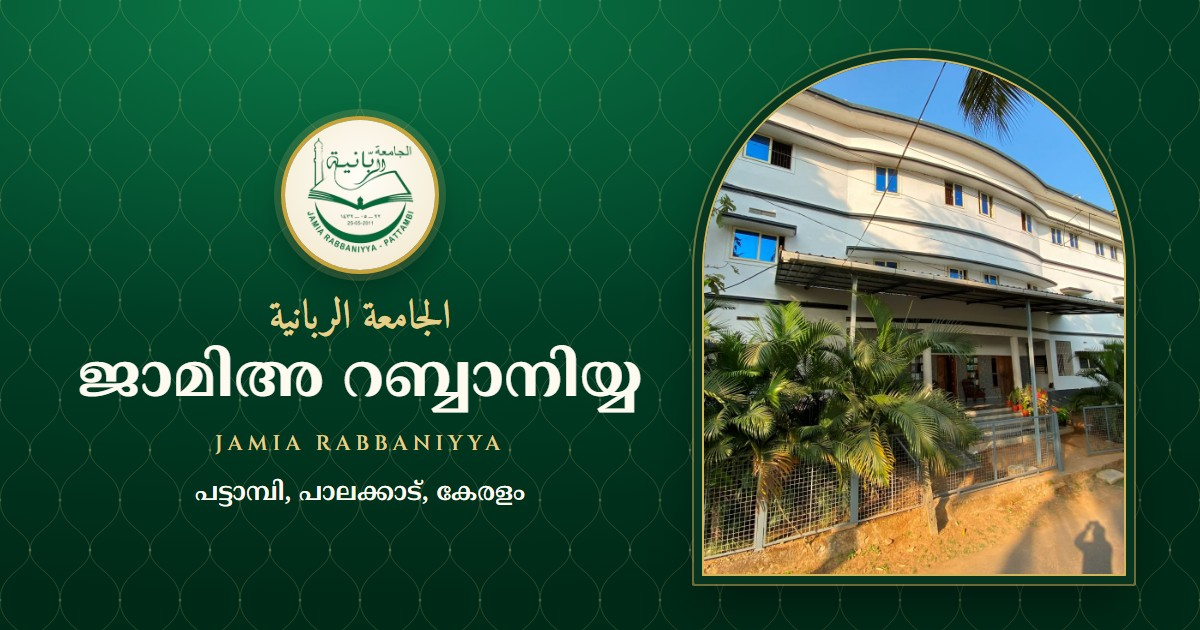
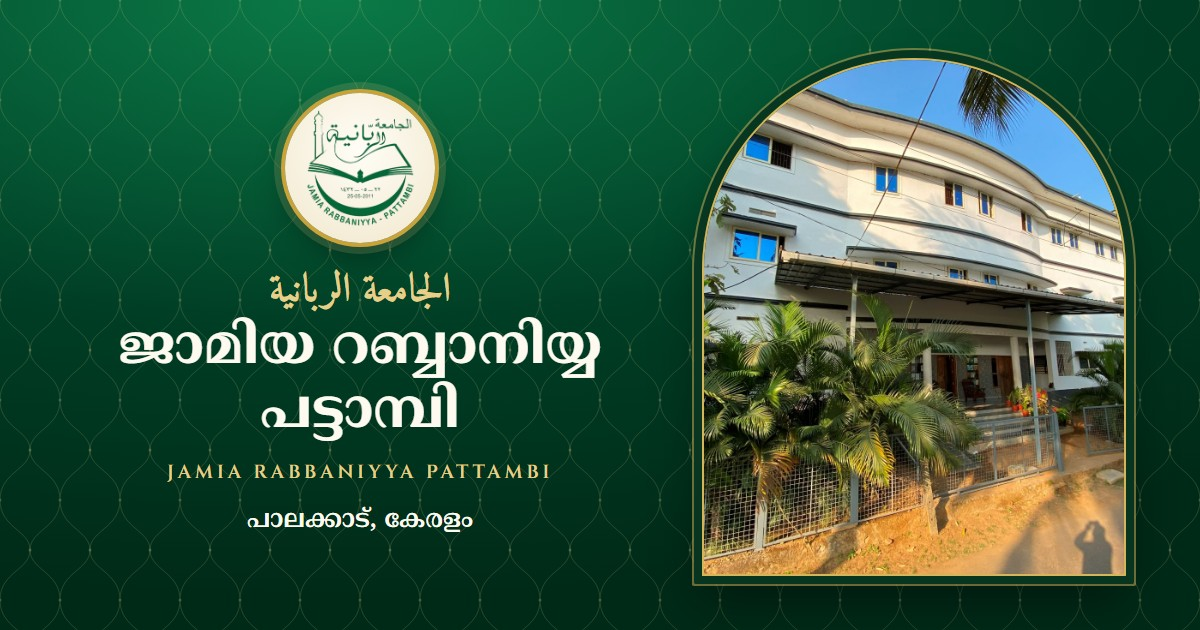
Full name, approved About text, office hours, founded 25 May 2011

Changed region(s): [[0.0617, 0.1206, 0.555, 0.8444]]

diff --git a/index.html b/index.html
@@ -3,14 +3,14 @@
 <head>
 <meta charset="utf-8">
 <meta name="viewport" content="width=device-width, initial-scale=1, viewport-fit=cover">
-<title>ജാമിഅ റബ്ബാനിയ്യ, പട്ടാമ്പി · Jamia Rabbaniyya, Pattambi</title>
-<meta name="description" content="ജാമിഅ റബ്ബാനിയ്യ, പട്ടാമ്പി: ഫോട്ടോ ആൽബങ്ങൾ, വിലാസം, ബന്ധപ്പെടാനുള്ള വിവരങ്ങൾ. Jamia Rabbaniyya, Pattambi, Palakkad, Kerala.">
+<title>ജാമിയ റബ്ബാനിയ്യ പട്ടാമ്പി · Jamia Rabbaniyya Pattambi</title>
+<meta name="description" content="ജാമിയ റബ്ബാനിയ്യ പട്ടാമ്പി, പാലക്കാട്: ദീനി വിദ്യാഭ്യാസ കേന്ദ്രം. തഹ്ഫീളുൽ ഖുർആൻ, കിത്താബ് ആലിം കോഴ്സ്. പഠനം, ഭക്ഷണം, ഹോസ്റ്റൽ സൗജന്യം. Jamia Rabbaniyya Pattambi, Palakkad, Kerala.">
 <meta name="theme-color" content="#003d25">
 <meta property="og:type" content="website">
 <meta property="og:locale" content="ml_IN">
-<meta property="og:site_name" content="Jamia Rabbaniyya">
-<meta property="og:title" content="ജാമിഅ റബ്ബാനിയ്യ, പട്ടാമ്പി · Jamia Rabbaniyya">
-<meta property="og:description" content="പട്ടാമ്പി, പാലക്കാട്, കേരളം · Pattambi, Palakkad, Kerala">
+<meta property="og:site_name" content="Jamia Rabbaniyya Pattambi">
+<meta property="og:title" content="ജാമിയ റബ്ബാനിയ്യ പട്ടാമ്പി · Jamia Rabbaniyya Pattambi">
+<meta property="og:description" content="ദീനി വിദ്യാഭ്യാസ കേന്ദ്രം · പട്ടാമ്പി, പാലക്കാട്, കേരളം · Pattambi, Palakkad, Kerala">
 <!-- SITE_URL_START -->
 <link rel="canonical" href="https://jamiarabbaniyyapattambi.github.io/">
 <meta property="og:url" content="https://jamiarabbaniyyapattambi.github.io/">
@@ -136,6 +136,14 @@
   .c-ic svg { width: 32px; height: 32px; }
   .course h4 { margin: 0; font-size: 18px; line-height: 1.35; font-weight: 700; color: var(--g900); }
   .course p { margin: 3px 0 0; font-family: var(--en); font-weight: 600; font-size: 11px; letter-spacing: .14em; text-transform: uppercase; color: var(--gold-d); }
+  .about-text .lead { font-size: 19px; font-weight: 700; color: var(--g900); }
+  .course .c-ml { margin: 6px 0 0; font-family: var(--ml); font-size: 14px; font-weight: 500; letter-spacing: 0; text-transform: none; color: var(--muted); }
+  .free { max-width: 620px; margin: 26px auto 0; padding: 18px 18px 16px; text-align: center; background: var(--card); border: 1px solid var(--line); border-top: 3px solid var(--gold); border-radius: 14px; box-shadow: 0 12px 26px -20px rgba(0, 61, 37, .5); }
+  .free p { margin: 0; font-size: 16.5px; line-height: 1.75; font-weight: 600; color: var(--g900); }
+  .nw { white-space: nowrap; }
+  .h1-en { letter-spacing: .17em; }
+  .f-hours { margin: 10px 0 0; font-size: 14px; color: #c9dbd0; }
+  .f-hours span { display: block; margin-top: 2px; font-family: var(--en); font-size: 11px; letter-spacing: .06em; color: #9fb8a8; }
   .about-call { margin: 30px 0 0; text-align: center; font-size: 17px; font-weight: 600; color: var(--g900); }
   .about .social { max-width: 520px; margin: 14px auto 0; }
 
@@ -204,7 +212,7 @@
     .seal { width: 136px; height: 136px; }
     .seal img { width: 108px; height: 108px; }
     .ar { font-size: 36px; }
-    .h1-en { font-size: 16px; }
+    .h1-en { font-size: 16px; letter-spacing: .24em; }
     .line { font-size: 20px; }
     .social { display: flex; flex-wrap: wrap; justify-content: center; gap: 12px; }
     .social a { padding: 0 18px; }
@@ -248,13 +256,13 @@
 
 <header class="hero">
   <div class="arch">
-    <div class="seal"><img src="assets/logo.png" alt="ജാമിഅ റബ്ബാനിയ്യ ലോഗോ" width="94" height="94"></div>
+    <div class="seal"><img src="assets/logo.png" alt="ജാമിയ റബ്ബാനിയ്യ പട്ടാമ്പി ലോഗോ" width="94" height="94"></div>
     <p class="ar" lang="ar" dir="rtl">الجامعة الربانية</p>
-    <h1>ജാമിഅ റബ്ബാനിയ്യ</h1>
-    <p class="h1-en" lang="en">Jamia Rabbaniyya</p>
+    <h1>ജാമിയ റബ്ബാനിയ്യ <span class="nw">പട്ടാമ്പി</span></h1>
+    <p class="h1-en" lang="en">Jamia Rabbaniyya Pattambi</p>
     <div class="rule" aria-hidden="true"><span></span></div>
-    <p class="line">പട്ടാമ്പി, പാലക്കാട്, കേരളം<span class="sub-en" lang="en">Pattambi · Palakkad · Kerala</span></p>
-    <p class="small">റബ്ബാനിയ്യ ട്രസ്റ്റിന് കീഴിൽ, 2011 മുതൽ<span class="sub-en" lang="en">Rabbaniyya Religious &amp; Educational Trust · Since 2011</span></p>
+    <p class="line">പാലക്കാട്, കേരളം<span class="sub-en" lang="en">Palakkad · Kerala</span></p>
+    <p class="small">റബ്ബാനിയ്യ ട്രസ്റ്റിന് കീഴിൽ, <span class="nw">2011 മെയ് 25 മുതൽ</span><span class="sub-en" lang="en">Rabbaniyya Religious &amp; Educational Trust · <span class="nw">Since 25 May 2011</span></span></p>
     <!-- social links: real addresses go in when the owner sends them (href="#" until then) -->
     <ul class="social">
       <li><a href="https://www.facebook.com/profile.php?id=61560185726738" target="_blank" rel="noopener" data-link="facebook"><svg aria-hidden="true"><use href="#i-fb"/></svg>Facebook</a></li>
@@ -286,14 +294,19 @@
         <h2>ഞങ്ങളെക്കുറിച്ച്</h2>
         <p class="h2-en" lang="en">About Us</p>
       </div>
+      <!-- About text: the owner's approved description (from the college's Google profile), word for word -->
       <div class="about-text">
-        <p>പട്ടാമ്പിയിലെ ഒരു അറബിക് ഇസ്ലാമിക് കോളേജാണ് ജാമിഅ റബ്ബാനിയ്യ. റബ്ബാനിയ്യ റിലീജിയസ് &amp; എജുക്കേഷണൽ ട്രസ്റ്റാണ് ഇത് നടത്തുന്നത്.<span class="sub-en" lang="en">Jamia Rabbaniyya is an Arabic Islamic college in Pattambi, run by the Rabbaniyya Religious &amp; Educational Trust.</span></p>
-        <p>ഇസ്ലാമിക നിയമങ്ങളും അവയുമായി ബന്ധപ്പെട്ട വിഷയങ്ങളും ഇവിടെ പഠിപ്പിക്കുന്നു.<span class="sub-en" lang="en">Islamic law and related subjects are taught here.</span></p>
+        <p class="lead">ജാമിയ റബ്ബാനിയ്യ പട്ടാമ്പി, പാലക്കാട്<span class="sub-en" lang="en">Jamia Rabbaniyya Pattambi, Palakkad</span></p>
+        <p>2011 മെയ് 25-ന് ബഹുമാന്യനായ ലുഖ്മാൻ ഉസ്താദ് പട്ടാമ്പി സ്ഥാപിച്ച ദീനി വിദ്യാഭ്യാസ കേന്ദ്രമാണിത്.<span class="sub-en" lang="en">A centre of Deeni (Islamic) education, founded on 25 May 2011 by the respected Luqman Usthad Pattambi.</span></p>
+        <p>യഥാർത്ഥ മുസ്ലിമീങ്ങളായി ജീവിക്കുന്നതിനും ദീനിൻ്റെ വഴിയിൽ സജ്ജരായിട്ടുള്ള ആളുകളെ വാർത്തെടുക്കുന്നതിനും സ്ഥാപനം ലക്ഷ്യമിടുന്നു.<span class="sub-en" lang="en">The institution aims to help people live as true Muslims and to raise people who are ready for the path of the Deen.</span></p>
       </div>
-      <h3 class="courses-title">കോഴ്സുകൾ<span class="sub-en" lang="en">Courses</span></h3>
+      <h3 class="courses-title">പ്രധാന കോഴ്സുകൾ<span class="sub-en" lang="en">Main Courses</span></h3>
       <div class="courses">
-        <div class="course"><span class="c-ic" aria-hidden="true"><svg><use href="#i-book"/></svg></span><h4>ആലിം കോഴ്സ്</h4><p lang="en">Alim Course</p></div>
-        <div class="course"><span class="c-ic" aria-hidden="true"><svg><use href="#i-rehal"/></svg></span><h4>ഹിഫ്ള് കോഴ്സ്</h4><p lang="en">Hifz Course</p></div>
+        <div class="course"><span class="c-ic" aria-hidden="true"><svg><use href="#i-rehal"/></svg></span><h4>തഹ്ഫീളുൽ ഖുർആൻ</h4><p class="c-ml">ഖുർആൻ മനഃപാഠമാക്കൽ</p><p lang="en">Tahfeezul Quran</p></div>
+        <div class="course"><span class="c-ic" aria-hidden="true"><svg><use href="#i-book"/></svg></span><h4>കിത്താബ് ആലിം കോഴ്സ്</h4><p class="c-ml">ദീർഘകാല പണ്ഡിത കോഴ്സ്</p><p lang="en">Kithab Alim Course</p></div>
+      </div>
+      <div class="free">
+        <p>ഇവിടെ പഠിക്കുന്ന മുസ്ലിം വിദ്യാർത്ഥികൾക്ക് പഠനം, ഭക്ഷണം, ഹോസ്റ്റൽ താമസം എന്നിവ ഉൾപ്പെടെയുള്ള എല്ലാ സൗകര്യങ്ങളും തികച്ചും സൗജന്യമാണ്. ഗുണമേന്മയുള്ള ഇസ്ലാമിക വിദ്യാഭ്യാസം സൗജന്യമായി നൽകാൻ ജാമിയ റബ്ബാനിയ്യ പ്രതിജ്ഞാബദ്ധമാണ്.<span class="sub-en" lang="en">For the Muslim students who study here, all facilities, including study, food and hostel stay, are completely free. Jamia Rabbaniyya is committed to giving quality Islamic education free of cost.</span></p>
       </div>
       <p class="about-call">പ്രവേശനത്തിനും കൂടുതൽ വിവരങ്ങൾക്കും വിളിക്കൂ<span class="sub-en" lang="en">For admission and details, please call</span></p>
       <ul class="social">
@@ -309,16 +322,17 @@
 <footer class="foot">
   <div class="wrap">
     <div class="seal"><img src="assets/logo.png" alt="" width="50" height="50"></div>
-    <p class="f-name">ജാമിഅ റബ്ബാനിയ്യ</p>
-    <p class="f-en" lang="en">Jamia Rabbaniyya · Pattambi</p>
+    <p class="f-name">ജാമിയ റബ്ബാനിയ്യ പട്ടാമ്പി</p>
+    <p class="f-en" lang="en">Jamia Rabbaniyya Pattambi</p>
     <p class="f-addr" lang="en">Pattambi, Palakkad Dt., Kerala – 679 303</p>
     <p class="f-tel" lang="en"><a href="tel:+919747055559">+91 97470 55559</a></p>
+    <p class="f-hours">ഓഫീസ് സമയം: രാവിലെ 8 – വൈകുന്നേരം 5<span lang="en">Office hours: 8 AM – 5 PM</span></p>
     <ul class="f-social">
       <li><a href="https://www.facebook.com/profile.php?id=61560185726738" target="_blank" rel="noopener" data-link="facebook" aria-label="Facebook"><svg aria-hidden="true"><use href="#i-fb"/></svg></a></li>
       <li><a href="https://www.instagram.com/jamiarabbaniyya.pattambi/" target="_blank" rel="noopener" data-link="instagram" aria-label="Instagram"><svg aria-hidden="true"><use href="#i-ig"/></svg></a></li>
       <li><a href="https://www.youtube.com/@JamiaRabbaniyya.pattambi" target="_blank" rel="noopener" data-link="youtube" aria-label="YouTube"><svg aria-hidden="true"><use href="#i-yt"/></svg></a></li>
     </ul>
-    <p class="copy" lang="en">© 2026 Jamia Rabbaniyya</p>
+    <p class="copy" lang="en">© 2026 Jamia Rabbaniyya Pattambi</p>
   </div>
 </footer>
 
